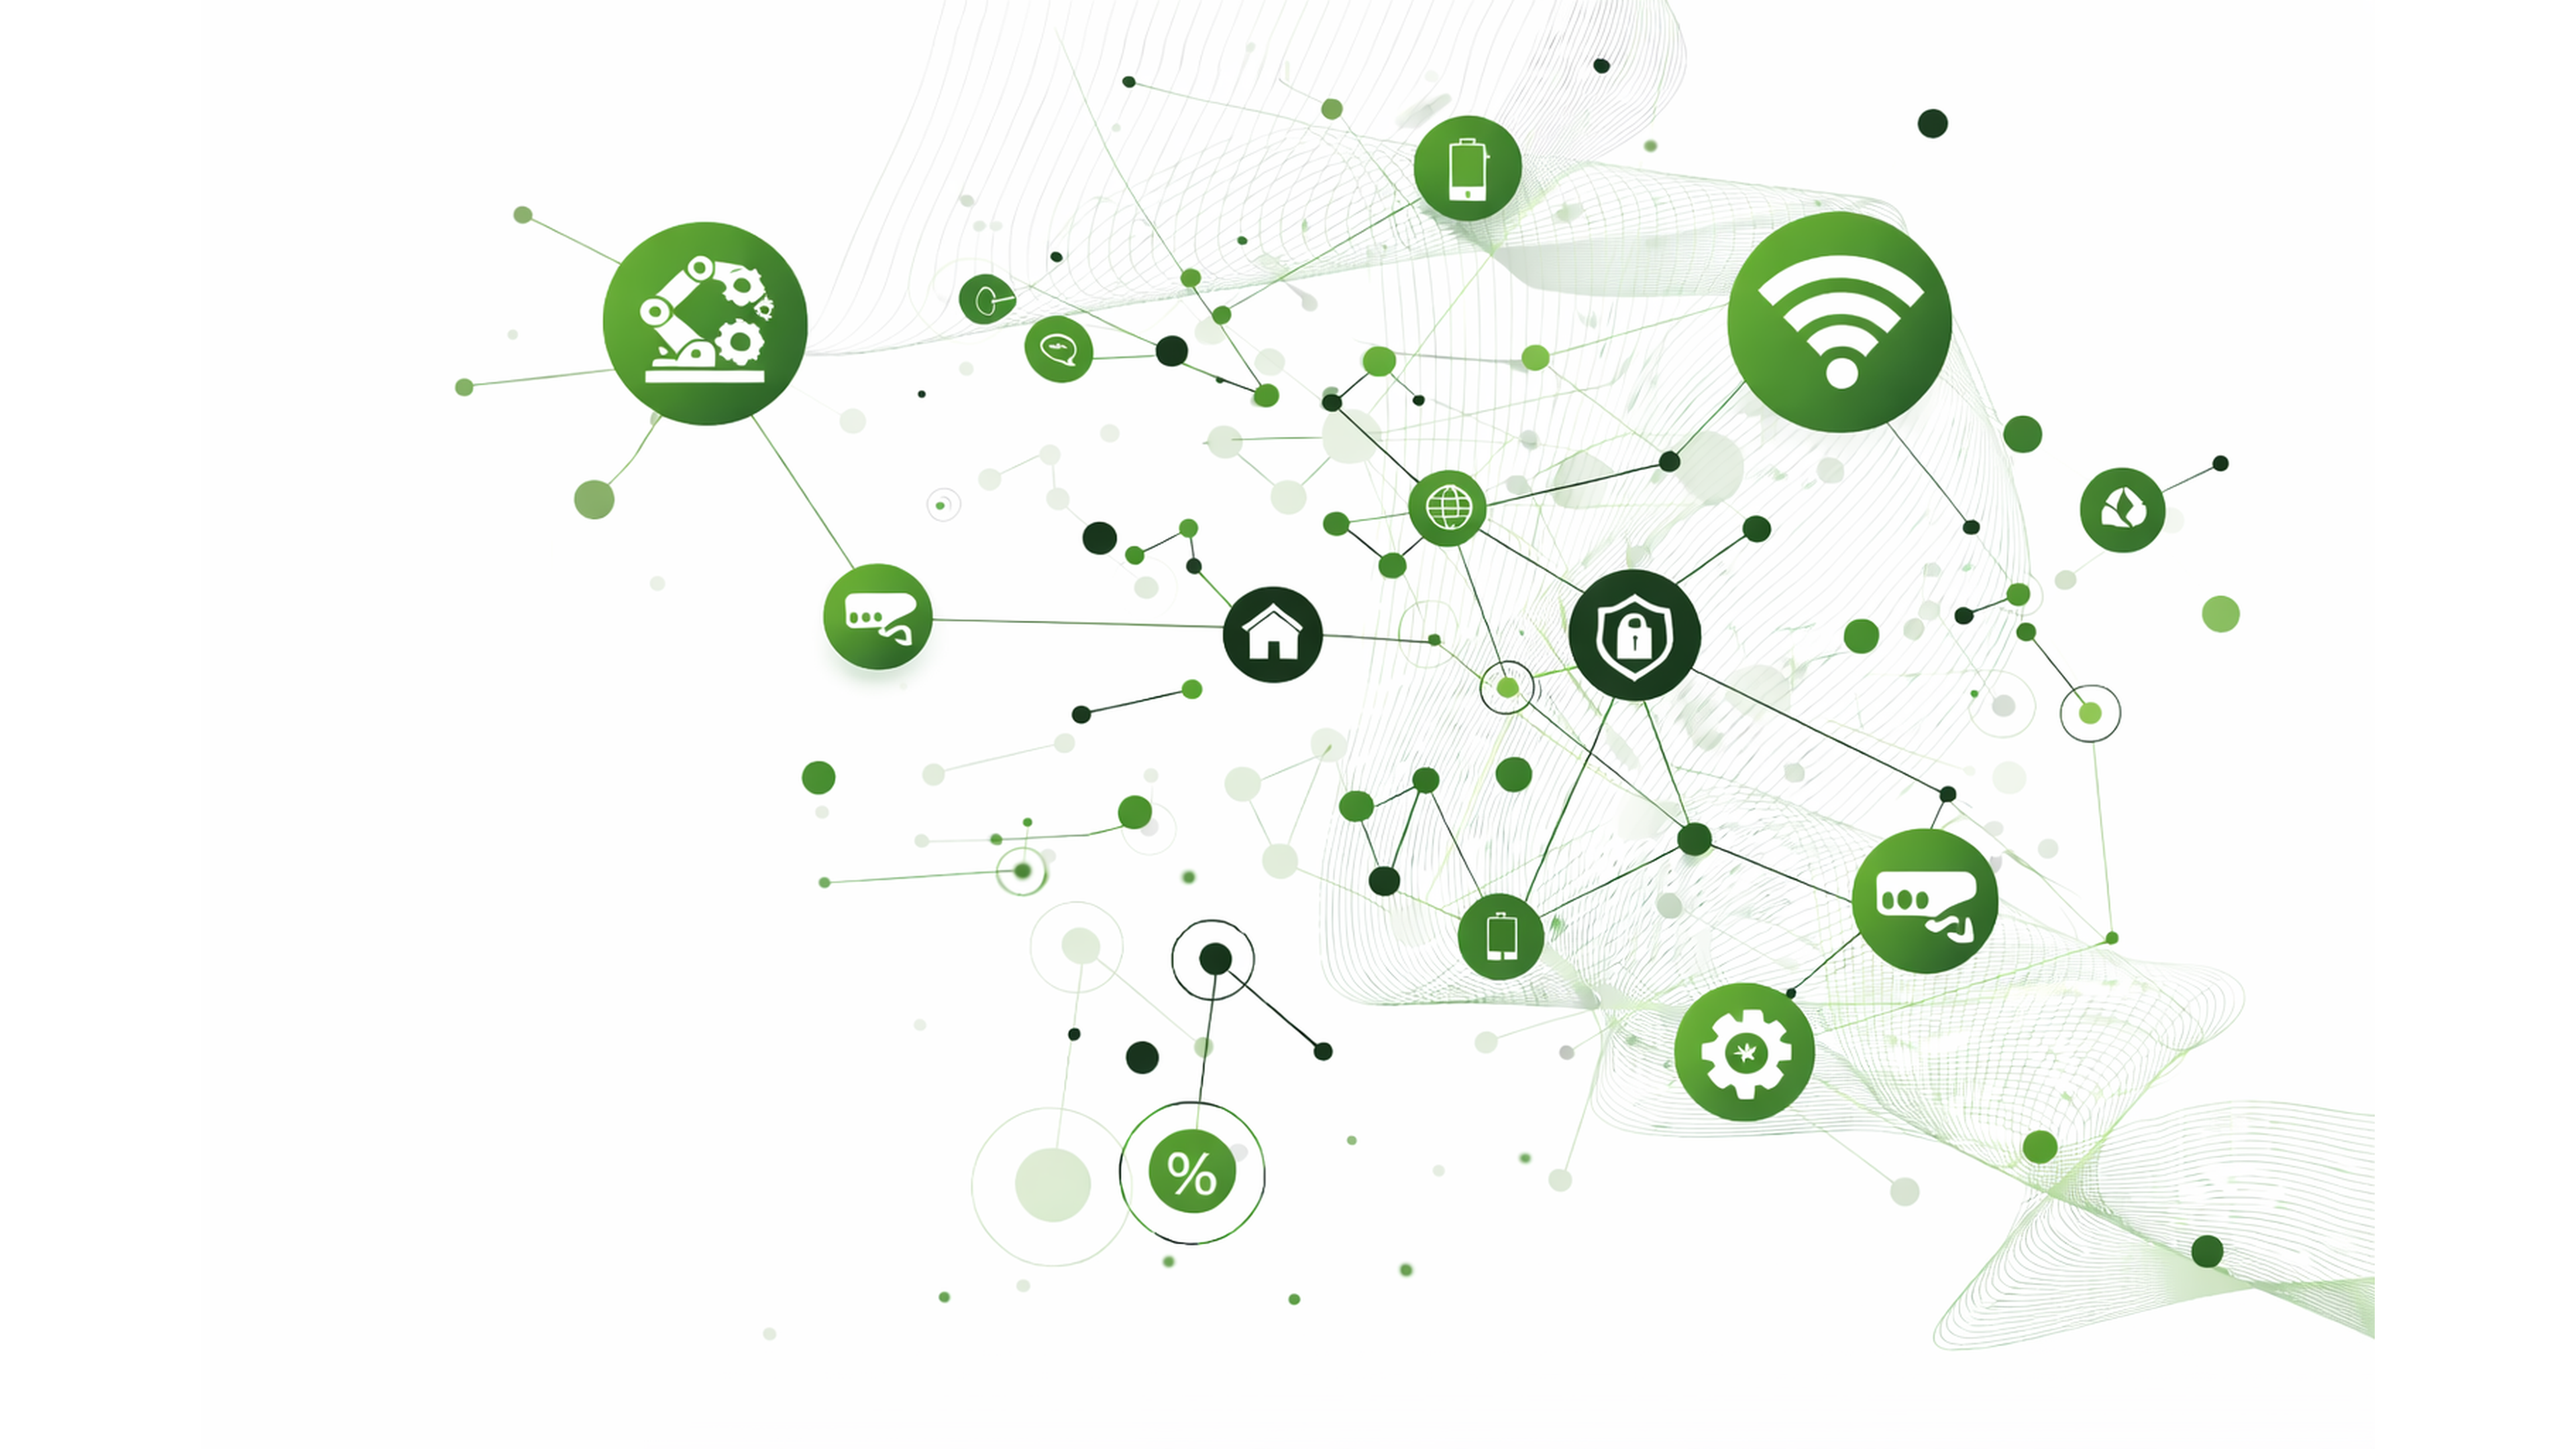
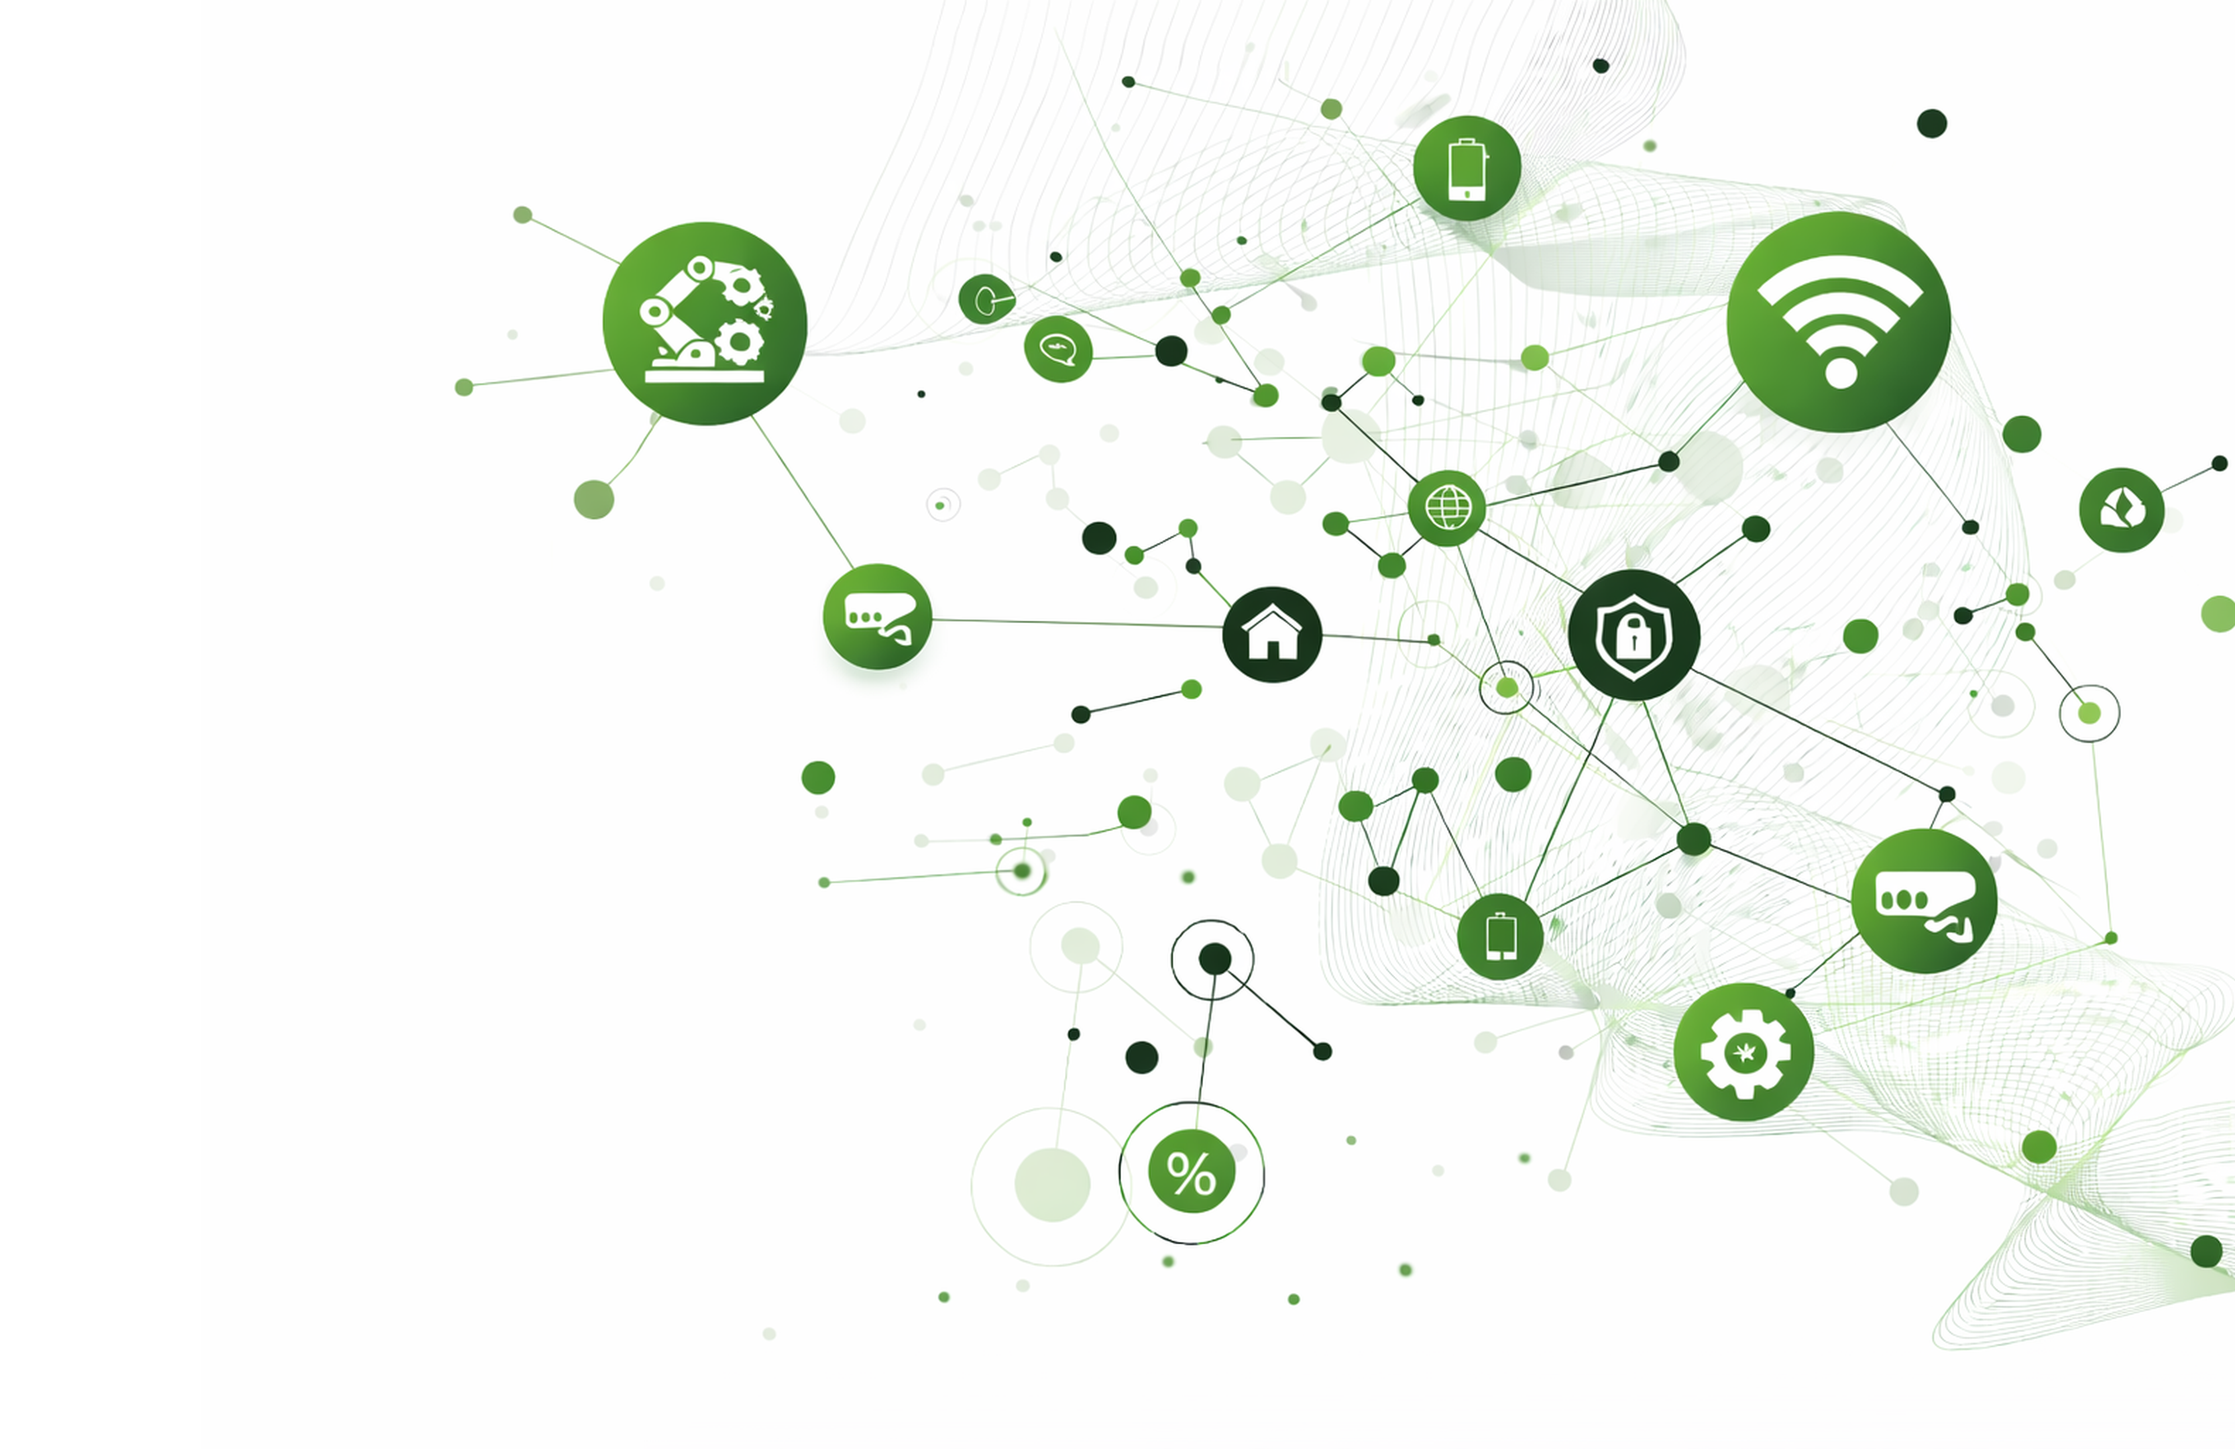
Tighten page and header padding; adjust right-side background image width and spacing; update product date and footer

diff --git a/index.html b/index.html
@@ -38,7 +38,7 @@
         body::before {
             content: '';
             position: fixed;
-            top: 0;
+            top: 40px;
             right: 0;
             bottom: 0;
             width: 40%;
@@ -52,7 +52,7 @@
             position: relative;
             width: 100%;
             background: var(--bg);
-            padding: 1rem 5%;
+            padding: 1rem 2%;
             border-bottom: 1px solid var(--border-soft);
         }
 
@@ -148,7 +148,7 @@
         /* Layout: left content column, right side visual background */
         .page-grid {
             position: relative;
-            padding: 2rem 5%;
+            padding: 2rem 2%;
             max-width: 1400px;
             margin: 0 auto;
             display: block;
@@ -1057,7 +1057,7 @@
         
         /* Large Tablets and Small Laptops */
         @media (max-width: 1024px) {
-            .page-grid { padding: 2rem 4%; }
+            .page-grid { padding: 2rem 2.5%; }
             .left-column { width: 100%; max-width: none; }
 
             .hero h1 { font-size: 2.3rem; }
@@ -1093,7 +1093,7 @@
         /* Tablets */
         @media (max-width: 768px) {
             nav {
-                padding: 0.8rem 3%;
+                padding: 0.8rem 2%;
             }
 
             .nav-links {
@@ -1288,7 +1288,7 @@
         /* Mobile Phones */
         @media (max-width: 480px) {
             nav {
-                padding: 0.8rem 4%;
+                padding: 0.8rem 2.5%;
             }
 
             .logo {
@@ -1508,6 +1508,13 @@
             }
         }
 
+        /* Hide large right-side decorative image on small screens to avoid overflow/cropping */
+        @media (max-width: 768px) {
+            body::before {
+                display: none;
+            }
+        }
+
         /* Extra Small Phones */
         @media (max-width: 360px) {
             .hero h1 {
@@ -1613,10 +1620,10 @@
                                 <p>A hardware-based Wall-Integrated Edge Computing Platform engineered for on-site edge intelligence in Industrial IoT (IIoT) and IoT environments, enabling indoor and outdoor security, tracking, tracing, and automation.</p>
                                 <p>A wall-integrated edge platform designed for retail, warehouses, offices, homes, and small industries, delivering local security and automation control with faster response, enhanced privacy, and minimal cloud reliance.</p>
                             </div>
-                            <div class="product-image">
-                                <div class="product-date-label">January 2026</div>
-                                <img src="product reveal images/screen2.png" alt="Wall-Integrated Edge Computing Platform">
-                            </div>
+                                <div class="product-image">
+                                    <div class="product-date-label">Mid 2026</div>
+                                    <img src="product reveal images/screen2.png" alt="Wall-Integrated Edge Computing Platform">
+                                </div>
                         </div>
                     </div>
                 </div>
@@ -1902,7 +1909,7 @@
         </div>
         
         <div class="footer-bottom">
-            <p class="footercopyright">&copy; 2025 BrumBella Pvt. Ltd. All rights reserved.</p>
+            <p class="footercopyright">&copy; 2025 BrumBella. All rights reserved.</p>
         </div>
     </footer>
 
